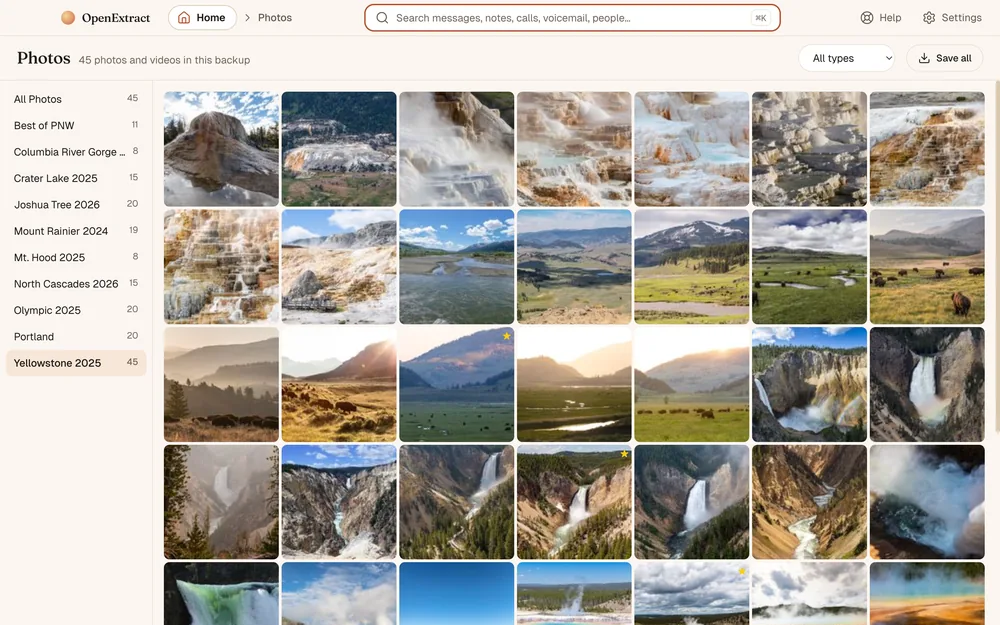
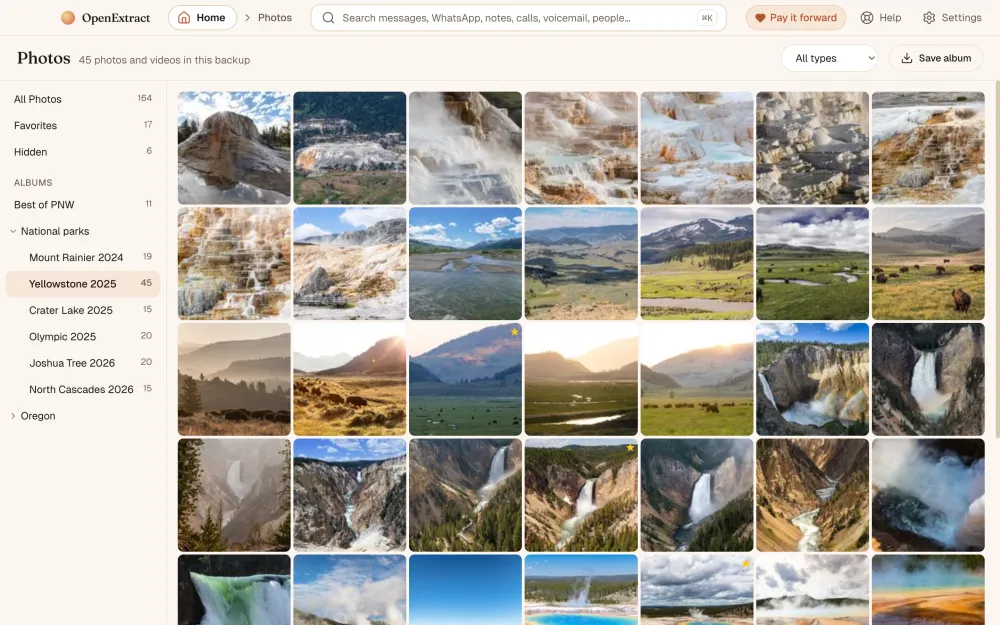
site: photos pages for 0.16.0 (albums, Favorites, Hidden, folders)
The photos guide said "Can I save one album? Not yet." 0.16.0 adds Save
album / Save favorites / Save hidden, albums inside the phone's folders,
and leaves hidden photos out of All Photos as the iPhone does (#266, #276).

- Photos guide: the new sidebar, saving one album, a Hidden photos section
  (hiding doesn't keep a photo out of a backup; encryption does), Recently
  Deleted as a limit, two new FAQ entries (JSON-LD matches the page).
- New Photos and album screenshots from a copy of the made-up Maren backup
  with two folders and six hidden photos; they replace the old ones on
  /screenshots, the README and the guide. The new home page keeps its own.
- Captions and feature lines on /screenshots, README, llms.txt, the backup
  viewer and Windows viewer pages, /guides and the export hub; sitemap
  dates.

diff --git a/website/static/use-cases/extract-photos-from-iphone-backup.html b/website/static/use-cases/extract-photos-from-iphone-backup.html
@@ -5,13 +5,13 @@
   <meta name="viewport" content="width=device-width, initial-scale=1.0" />
   <meta name="theme-color" content="#faf6f1" />
   <title>Extract photos from an iPhone backup, free — OpenExtract</title>
-  <meta name="description" content="Save every photo and video in an iPhone backup to your PC or Mac as the original files, in folders by month with their real dates. Free, open source." />
+  <meta name="description" content="Save the photos and videos in an iPhone backup to your PC or Mac as the original files: all of them, one album, your favorites or your hidden photos. Free." />
   <link rel="canonical" href="https://www.openextract.app/use-cases/extract-photos-from-iphone-backup" />
   <meta name="robots" content="index, follow, max-image-preview:large" />
   <meta property="og:type" content="article" />
   <meta property="og:url" content="https://www.openextract.app/use-cases/extract-photos-from-iphone-backup" />
   <meta property="og:title" content="Extract photos from an iPhone backup, free" />
-  <meta property="og:description" content="Open an iPhone backup and save its whole camera roll as the original files, sorted by month." />
+  <meta property="og:description" content="Open an iPhone backup and save its camera roll, one album or the hidden photos, as the original files." />
   <meta property="og:image" content="https://www.openextract.app/img/og-image.png" />
   <meta name="twitter:card" content="summary_large_image" />
   <link rel="icon" href="/favicon.ico" sizes="any" />
@@ -21,10 +21,10 @@
     "@context": "https://schema.org",
     "@type": "WebPage",
     "name": "Extract photos from an iPhone backup, free",
-    "description": "Save every photo and video in an iPhone backup to your PC or Mac as the original files, in folders by month with their real dates. Free, open source.",
+    "description": "Save the photos and videos in an iPhone backup to your PC or Mac as the original files: all of them, one album, your favorites or your hidden photos. Free.",
     "url": "https://www.openextract.app/use-cases/extract-photos-from-iphone-backup",
     "datePublished": "2026-11-12",
-    "dateModified": "2026-11-12",
+    "dateModified": "2026-11-16",
     "image": "https://www.openextract.app/img/og-image.png",
     "isPartOf": {
       "@type": "WebSite",
@@ -101,7 +101,15 @@
         "name": "Can I save one album?",
         "acceptedAnswer": {
           "@type": "Answer",
-          "text": "Not yet. You can browse each album in the app, but Save all saves every photo and video in the backup."
+          "text": "Yes. Click the album in the sidebar, then Save album, and only that album's photos and videos are saved, in folders by month like the rest. Favorites and Hidden work the same way, with Save favorites and Save hidden. Save all doesn't sort photos into albums, so to keep an album together, save it on its own into a new folder."
+        }
+      },
+      {
+        "@type": "Question",
+        "name": "Can I get my hidden photos out of a backup?",
+        "acceptedAnswer": {
+          "@type": "Answer",
+          "text": "Yes. Hiding a photo on the iPhone moves it to the Hidden album but keeps it on the phone, so it's in the backup like any other photo. OpenExtract lists those photos under Hidden and, as on the iPhone, leaves them out of All Photos and Favorites. Click Hidden, then Save hidden. Save to this computer, on the backup's home page, saves every photo and video, hidden ones included."
         }
       },
       {
@@ -157,9 +165,9 @@
   </nav>
 
   <header class="page-head">
-    <div class="page-head__eyebrow">Guide · 4 min</div>
+    <div class="page-head__eyebrow">Guide · 5 min</div>
     <h1>Extract photos<br />from an <span class="it">iPhone backup</span>.</h1>
-    <p class="page-head__lede">Open the backup in OpenExtract, a free app, and save every photo and video in it to your Windows PC or Mac in one go: the original files, in a folder for each month, each dated the day it was taken. No iCloud, no account, and an ordinary backup is enough.</p>
+    <p class="page-head__lede">Open the backup in OpenExtract, a free app, and save its photos and videos to your Windows PC or Mac: all of them in one go, or just one album, your favorites or your hidden photos. You get the original files, in a folder for each month, each dated the day it was taken. No iCloud, no account, and an ordinary backup is enough.</p>
   </header>
 
   <section class="prose">
@@ -167,7 +175,7 @@
       <p>An iPhone backup made by Finder, iTunes or the Apple Devices app holds the phone's camera roll, but you can't just open it: the files are renamed to long strings of letters and numbers, with no names, folders or dates you'd recognise. That matters most when the phone is lost, broken or wiped and the backup is all that's left, or when you'd rather not restore a whole phone just to get the pictures. Most of the tools that come up when you search for this are paid apps. OpenExtract does it for free, with no trial and no limit on how many photos you save, and it reads everything on your own computer.</p>
       <figure class="screen">
         <a class="screen__frame" href="/img/screens/photos-2000.webp">
-          <img src="/img/screens/photos-1000.webp" srcset="/img/screens/photos-1000.webp 1000w, /img/screens/photos-2000.webp 2000w" sizes="(max-width: 720px) calc(100vw - 48px), 720px" width="1000" height="625" loading="lazy" decoding="async" alt="The Photos screen in OpenExtract, opened on a made-up sample backup: a grid of landscape photos with favorites starred and the backup's albums listed alongside." />
+          <img src="/img/screens/photos-1000.webp" srcset="/img/screens/photos-1000.webp 1000w, /img/screens/photos-2000.webp 2000w" sizes="(max-width: 720px) calc(100vw - 48px), 720px" width="1000" height="625" loading="lazy" decoding="async" alt="The Photos screen in OpenExtract, opened on a made-up sample backup: All Photos, Favorites and Hidden at the top of the sidebar, then the albums, with the National parks folder open, beside a grid of landscape photos with favorites starred." />
         </a>
         <figcaption><strong>Photos, opened from a backup</strong>A made-up sample backup in OpenExtract. <a href="/screenshots">See every screen</a>.</figcaption>
       </figure>
@@ -194,15 +202,17 @@
       <div class="uc-step__num" style="color: var(--sage);">03</div>
       <div>
         <h2>Look through the photos</h2>
-        <p>Click <strong>Photos</strong> on the backup's home page. The grid shows every photo and video in the backup, with favorites starred and the phone's albums listed alongside. Click a photo to see it full size, or use the menu at the top to show only photos, videos, Live Photos or screenshots.</p>
+        <p>Click <strong>Photos</strong> on the backup's home page. The sidebar is laid out as on the iPhone: <strong>All Photos</strong>, <strong>Favorites</strong> and <strong>Hidden</strong>, then your albums, inside the folders you made and in the same order. Click a folder to open it. All Photos shows every photo and video in the backup except the ones you hid, which are under Hidden, as on the phone; favorites are starred.</p>
+        <p>Click a photo to see it full size, or use the menu at the top to show only photos, videos, Live Photos or screenshots.</p>
       </div>
     </div>
     <div class="uc-step">
       <div class="uc-step__num" style="color: var(--plum);">04</div>
       <div>
-        <h2>Save them all</h2>
-        <p>Click <strong>Save all</strong> and choose a folder. OpenExtract copies every photo and video in the backup into it, in a folder for each year and month (<code>2025/07</code>, <code>2025/08</code> and so on), and shows how far it has got: "Saving 1,234 of 5,678 photos and videos…". A big library takes a while, especially from an encrypted backup. When it's done, it says how many were saved, and how many are only in iCloud.</p>
-        <p>The same save is under <strong>Save to this computer</strong> on the backup's home page, next to messages, contacts and the rest; from there the photos go into a <code>Photos</code> folder.</p>
+        <h2>Save them all, or one album</h2>
+        <p>With All Photos selected, click <strong>Save all</strong> and choose a folder. OpenExtract copies the photos and videos into it, in a folder for each year and month (<code>2025/07</code>, <code>2025/08</code> and so on), and shows how far it has got: "Saving 1,234 of 5,678 photos and videos…". A big library takes a while, especially from an encrypted backup. When it's done, it says how many were saved, and how many are only in iCloud.</p>
+        <p>With an album, Favorites or Hidden selected, the button says <strong>Save album</strong>, <strong>Save favorites</strong> or <strong>Save hidden</strong> instead, and saves only those photos.</p>
+        <p>To save every photo and video in the backup, hidden ones included, use <strong>Save to this computer</strong> on the backup's home page, next to messages, contacts and the rest. It says how many of them are hidden, and the photos go into a <code>Photos</code> folder.</p>
       </div>
     </div>
     <div class="uc-step">
@@ -217,11 +227,22 @@
 
   <section class="prose">
     <div class="prose__inner">
+      <h2>One album, your favorites or your hidden photos</h2>
+      <p>Every album in the sidebar can be saved on its own. Click it, then <strong>Save album</strong>: only that album's photos and videos are saved, sorted by month like the rest. Save all doesn't sort photos into albums, so if you want an album kept together, save it on its own into a new folder. Favorites and Hidden work the same way.</p>
+      <figure class="screen">
+        <a class="screen__frame" href="/img/screens/album-2000.webp">
+          <img src="/img/screens/album-1000.webp" srcset="/img/screens/album-1000.webp 1000w, /img/screens/album-2000.webp 2000w" sizes="(max-width: 720px) calc(100vw - 48px), 720px" width="1000" height="625" loading="lazy" decoding="async" alt="The Yellowstone 2025 album, inside the National parks folder, open in OpenExtract on a made-up sample backup: 45 photos of hot springs, bison and waterfalls, with Save album at the top." />
+        </a>
+        <figcaption><strong>One album, ready to save</strong>Save album saves only the 45 photos on screen.</figcaption>
+      </figure>
+      <h2 id="hidden-photos">Hidden photos</h2>
+      <p>Hiding a photo on an iPhone takes it out of your library and puts it in the Hidden album, but the photo stays on the phone, so it's in the backup like any other. OpenExtract lists those photos under <strong>Hidden</strong>; click it, then <strong>Save hidden</strong>, to save just them. As on the iPhone, they're left out of All Photos and Favorites, and out of the photo counts on the home page, the Timeline and the Year view.</p>
+      <p>It also means hidden isn't private once there's a backup: anyone who can open an ordinary backup on that computer can see those photos. Turning on <strong>Encrypt local backup</strong> in Finder, iTunes or the Apple Devices app makes backups that need their password to open. <a href="/blog/encrypted-backups-are-better">Why encrypted backups are better</a>.</p>
       <h2>What it can't do</h2>
       <ul>
         <li><strong>Photos that are only in iCloud.</strong> With iCloud Photos on, and especially with Optimize iPhone Storage, many full-size photos aren't on the phone, so they aren't in its backup. OpenExtract says how many; download those from iCloud instead.</li>
         <li><strong>The moving part of Live Photos.</strong> A Live Photo is saved as its still photo, without the short video.</li>
-        <li><strong>One album at a time.</strong> You can browse albums, but Save all saves the whole backup.</li>
+        <li><strong>Recently Deleted.</strong> Photos in the Recently Deleted album aren't shown or saved.</li>
         <li><strong>It only has what the backup has.</strong> Photos taken after the backup was made aren't in it. Make a new backup first if you want today's camera roll.</li>
         <li><strong>No iCloud backups.</strong> It works from a backup on your computer, not from iCloud or an iCloud backup.</li>
       </ul>
@@ -230,7 +251,8 @@
       <p><strong>Why are some of my photos missing?</strong> With iCloud Photos on, and especially with Optimize iPhone Storage, many full-size photos live only in iCloud, so the iPhone&#x27;s backup doesn&#x27;t have them. OpenExtract counts only the photos that are in the backup and says how many more are only in iCloud. Those you download from iCloud instead.</p>
       <p><strong>Are the photos the original quality?</strong> Yes. OpenExtract copies the files as they are in the backup, so photos keep their format, resolution and EXIF details such as the camera and, where the phone recorded it, the place. HEIC photos stay HEIC.</p>
       <p><strong>Will the dates be right?</strong> Yes. The photos go into a folder for each month (for example 2025/07), and every saved file gets the date it was taken as its file date, so Finder, File Explorer and photo apps sort them in the order you took them.</p>
-      <p><strong>Can I save one album?</strong> Not yet. You can browse each album in the app, but Save all saves every photo and video in the backup.</p>
+      <p><strong>Can I save one album?</strong> Yes. Click the album in the sidebar, then Save album, and only that album&#x27;s photos and videos are saved, in folders by month like the rest. Favorites and Hidden work the same way, with Save favorites and Save hidden. Save all doesn&#x27;t sort photos into albums, so to keep an album together, save it on its own into a new folder.</p>
+      <p><strong>Can I get my hidden photos out of a backup?</strong> Yes. Hiding a photo on the iPhone moves it to the Hidden album but keeps it on the phone, so it&#x27;s in the backup like any other photo. OpenExtract lists those photos under Hidden and, as on the iPhone, leaves them out of All Photos and Favorites. Click Hidden, then Save hidden. Save to this computer, on the backup&#x27;s home page, saves every photo and video, hidden ones included.</p>
       <p><strong>Does it work without iCloud?</strong> Yes. OpenExtract reads a backup saved on your own Mac or PC, so you don&#x27;t need iCloud, an Apple ID sign-in or the phone itself once the backup exists. It can&#x27;t read an iCloud backup.</p>
       <p><strong>Does anything get uploaded?</strong> No. OpenExtract reads the backup on your own computer and doesn&#x27;t send it anywhere. It goes online only when you let it: to check for a new version, if you allow it (you can turn that off in Settings); to send a problem report or a thank-you, when you click Send; and on Windows, to install Apple&#x27;s free Apple Devices app from Microsoft, if you ask it to, for backing up an iPhone. Nothing from inside your backup goes with any of them.</p>
       <p><strong>Is it really free?</strong> Yes. OpenExtract is open source under the MIT license, with no paid tier, no account and no strings attached. <a href="https://github.com/charleswest775/openextract">The code is on GitHub</a>.</p>

diff --git a/website/static/screenshots.html b/website/static/screenshots.html
@@ -113,16 +113,16 @@
 
     <figure class="screen">
       <a class="screen__frame" href="/img/screens/photos-2000.webp">
-        <img src="/img/screens/photos-1000.webp" srcset="/img/screens/photos-1000.webp 1000w, /img/screens/photos-2000.webp 2000w" sizes="(max-width: 720px) calc(100vw - 48px), 540px" width="1000" height="625" loading="lazy" decoding="async" alt="The Photos screen: a grid of landscape photos with favorites starred and the backup's albums listed alongside." />
+        <img src="/img/screens/photos-1000.webp" srcset="/img/screens/photos-1000.webp 1000w, /img/screens/photos-2000.webp 2000w" sizes="(max-width: 720px) calc(100vw - 48px), 540px" width="1000" height="625" loading="lazy" decoding="async" alt="The Photos screen: All Photos, Favorites and Hidden at the top of the sidebar, then the albums, with the National parks folder open, beside a grid of landscape photos with favorites starred." />
       </a>
-      <figcaption><strong>Photos</strong>The whole camera roll, with favorites starred.</figcaption>
+      <figcaption><strong>Photos</strong>The whole camera roll, with Favorites, Hidden and your albums in the folders you made.</figcaption>
     </figure>
 
     <figure class="screen">
       <a class="screen__frame" href="/img/screens/album-2000.webp">
-        <img src="/img/screens/album-1000.webp" srcset="/img/screens/album-1000.webp 1000w, /img/screens/album-2000.webp 2000w" sizes="(max-width: 720px) calc(100vw - 48px), 540px" width="1000" height="625" loading="lazy" decoding="async" alt="The Yellowstone 2025 album open, showing 45 photos of hot springs, bison and waterfalls." />
+        <img src="/img/screens/album-1000.webp" srcset="/img/screens/album-1000.webp 1000w, /img/screens/album-2000.webp 2000w" sizes="(max-width: 720px) calc(100vw - 48px), 540px" width="1000" height="625" loading="lazy" decoding="async" alt="The Yellowstone 2025 album, inside the National parks folder, open with Save album at the top: 45 photos of hot springs, bison and waterfalls." />
       </a>
-      <figcaption><strong>Albums</strong>The albums you made on your phone, kept as they were.</figcaption>
+      <figcaption><strong>Albums</strong>Each album in the folder you made for it. Save album saves just the one on screen.</figcaption>
     </figure>
 
     <figure class="screen">

diff --git a/website/static/use-cases/view-iphone-backup-on-windows.html b/website/static/use-cases/view-iphone-backup-on-windows.html
@@ -24,7 +24,7 @@
     "description": "Where Windows keeps iPhone backups from iTunes or Apple Devices, and how to open one and read it with OpenExtract, a free viewer for Windows 10 and 11.",
     "url": "https://www.openextract.app/use-cases/view-iphone-backup-on-windows",
     "datePublished": "2026-11-03",
-    "dateModified": "2026-11-12",
+    "dateModified": "2026-11-16",
     "image": "https://www.openextract.app/img/og-image.png",
     "isPartOf": {
       "@type": "WebSite",
@@ -229,7 +229,7 @@
       <ul>
         <li><strong>Messages</strong>: every iMessage, SMS and group chat, with the photos sent in them. You can search them too.</li>
         <li><strong>WhatsApp</strong>: chats, groups and broadcast lists, with their photos, voice messages and calls, if WhatsApp was on the phone. Here's <a href="/use-cases/export-whatsapp-chats-from-iphone-backup">how to export WhatsApp chats</a>.</li>
-        <li><strong>Photos</strong>: the camera roll and the albums made on the phone.</li>
+        <li><strong>Photos</strong>: the camera roll, Favorites, Hidden and the albums made on the phone, in their folders. Here's <a href="/use-cases/extract-photos-from-iphone-backup">how to save photos from a backup</a>.</li>
         <li><strong>Contacts, calls and notes</strong>: the address book, the call log including FaceTime, and Apple Notes.</li>
         <li><strong>Voicemail</strong>: saved voicemails you can play and save.</li>
         <li><strong>Podcasts</strong>: the shows followed in Apple Podcasts and every episode played. Here's <a href="/use-cases/export-podcasts-from-iphone-backup">how to move them to another podcast app</a>.</li>

diff --git a/website/static/use-cases/free-iphone-backup-viewer.html b/website/static/use-cases/free-iphone-backup-viewer.html
@@ -24,7 +24,7 @@
     "description": "Open an iPhone backup and read the messages, photos, contacts, calls, notes and voicemails inside. Free and open source, no export caps, nothing uploaded.",
     "url": "https://www.openextract.app/use-cases/free-iphone-backup-viewer",
     "datePublished": "2026-11-02",
-    "dateModified": "2026-11-12",
+    "dateModified": "2026-11-16",
     "image": "https://www.openextract.app/img/og-image.png",
     "isPartOf": { "@type": "WebSite", "name": "OpenExtract", "url": "https://www.openextract.app/" },
     "publisher": {
@@ -97,7 +97,7 @@
       <ul>
         <li><strong>Messages.</strong> iMessage and SMS conversations, group chats labeled by who said what, and the photos sent in them.</li>
         <li><strong>WhatsApp.</strong> Chats and groups with their photos, voice messages, replies and calls, if WhatsApp was on the phone.</li>
-        <li><strong>Photos and videos.</strong> The camera roll, with favorites starred and the albums made on the phone.</li>
+        <li><strong>Photos and videos.</strong> The camera roll, with Favorites, Hidden and the albums made on the phone, in their folders.</li>
         <li><strong>Contacts.</strong> The address book, with names, companies, numbers and emails.</li>
         <li><strong>Call history.</strong> Every call with its date, length and direction, including FaceTime.</li>
         <li><strong>Notes.</strong> Apple Notes, ready to read.</li>

diff --git a/website/static/use-cases/export-iphone-data.html b/website/static/use-cases/export-iphone-data.html
@@ -24,7 +24,7 @@
     "description": "Export messages, photos, contacts, call history, voicemails, and more from any iPhone backup. Free, open source, runs on your own computer.",
     "url": "https://www.openextract.app/use-cases/export-iphone-data",
     "datePublished": "2026-04-24",
-    "dateModified": "2026-11-14",
+    "dateModified": "2026-11-16",
     "image": "https://www.openextract.app/img/og-image.png",
     "isPartOf": { "@type": "WebSite", "name": "OpenExtract", "url": "https://www.openextract.app/" },
     "publisher": {
@@ -102,7 +102,7 @@
       <a class="uc-pick" href="/use-cases/extract-photos-from-iphone-backup">
         <div class="uc-pick__icon" style="background: var(--sage-22);">📷</div>
         <div class="uc-pick__title">Photos &amp; videos</div>
-        <div class="uc-pick__desc">Original files with EXIF, dates, and locations intact.</div>
+        <div class="uc-pick__desc">Original files with EXIF, dates, and locations intact. All of them, or one album.</div>
         <div class="uc-pick__cta uc-pick__cta--sage">Guide →</div>
       </a>
       <div class="uc-pick">

diff --git a/website/static/guides.html b/website/static/guides.html
@@ -158,9 +158,9 @@
         <div class="blog-post-card__cta blog-post-card__cta--guide">Read →</div>
       </a>
       <a class="blog-post-card" href="/use-cases/extract-photos-from-iphone-backup">
-        <div class="blog-featured__meta"><span class="blog-cat blog-cat--guide">Guide</span><span class="blog-date">4 min</span></div>
+        <div class="blog-featured__meta"><span class="blog-cat blog-cat--guide">Guide</span><span class="blog-date">5 min</span></div>
         <h3>Extract photos from an iPhone backup</h3>
-        <p>Save the whole camera roll as the original files, in folders by month with their real dates.</p>
+        <p>Save the camera roll, one album or your hidden photos as the original files, in folders by month.</p>
         <div class="blog-post-card__cta blog-post-card__cta--guide">Read →</div>
       </a>
       <a class="blog-post-card" href="/use-cases/export-iphone-contacts">

diff --git a/README.md b/README.md
@@ -83,12 +83,12 @@ These use a made-up test backup, so none of the people or messages are real. Cli
   </tr>
   <tr>
     <td width="50%" valign="top">
-      <a href="website/static/img/screens/photos-2000.webp"><img src="website/static/img/screens/photos-1000.webp" width="100%" alt="The Photos screen: a grid of landscape photos with favorites starred and the backup's albums listed alongside."></a>
-      <br><b>Photos</b>: the whole camera roll, with favorites starred.
+      <a href="website/static/img/screens/photos-2000.webp"><img src="website/static/img/screens/photos-1000.webp" width="100%" alt="The Photos screen: All Photos, Favorites and Hidden at the top of the sidebar, then the albums, with the National parks folder open, beside a grid of landscape photos."></a>
+      <br><b>Photos</b>: the whole camera roll, with Favorites, Hidden and your albums in the folders you made.
     </td>
     <td width="50%" valign="top">
-      <a href="website/static/img/screens/album-2000.webp"><img src="website/static/img/screens/album-1000.webp" width="100%" alt="An album open, showing photos of hot springs, bison and waterfalls."></a>
-      <br><b>Albums</b>: the albums made on the phone, kept as they were.
+      <a href="website/static/img/screens/album-2000.webp"><img src="website/static/img/screens/album-1000.webp" width="100%" alt="An album inside a folder, open with Save album at the top: photos of hot springs, bison and waterfalls."></a>
+      <br><b>Albums</b>: each album in the folder you made for it; Save album saves just that one.
     </td>
   </tr>
   <tr>
